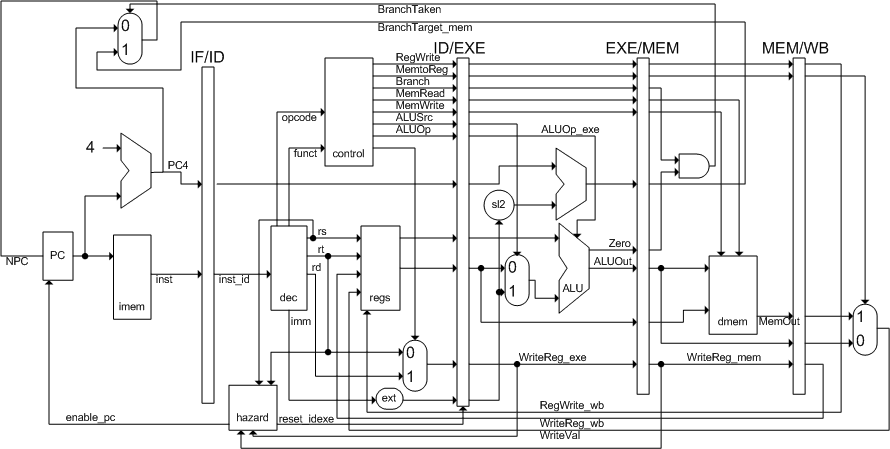
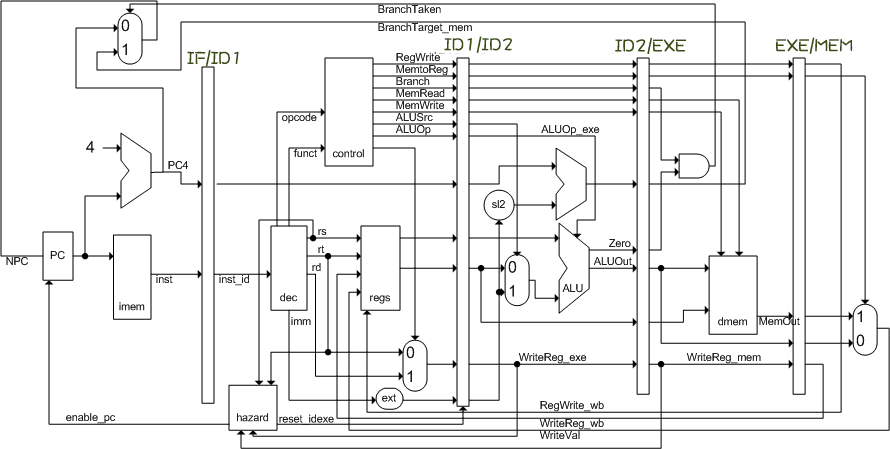
ex2 done ;D

diff --git a/Trabalho 1/MIPS_SystemC_v0.6.6/GUI/MIPSimemview.cpp b/Trabalho 1/MIPS_SystemC_v0.6.6/GUI/MIPSimemview.cpp
@@ -7,23 +7,25 @@
 
 #include "MIPSimemview.h"
 
-MIPSimemview::MIPSimemview( imem &m, 
-		            sc_port_base &pc, 
-		            sc_port_base &pc_id, 
-		            sc_port_base &valid_id, 
-		            sc_port_base &pc_exe, 
-		            sc_port_base &valid_exe, 
-		            sc_port_base &pc_mem, 
-		            sc_port_base &valid_mem, 
-		            sc_port_base &pc_wb, 
-		            sc_port_base &valid_wb, 
+MIPSimemview::MIPSimemview( imem &m,
+		            sc_port_base &pc,
+		            sc_port_base &pc_id,
+		            sc_port_base &valid_id,
+		            sc_port_base &pc_exe,
+		            sc_port_base &valid_exe,
+		            sc_port_base &pc_mem,
+		            sc_port_base &valid_mem,
+		            sc_port_base &pc_wb,
+		            sc_port_base &valid_wb,
 		            QWidget* parent,  const char* name, Qt::WFlags fl )
     : MIPSmemview( m, parent, name, fl )
-{   
+{
     // access to PC value
     PC     = new PortValRead(pc,"PC");
     PC_id  = new PortValRead(pc_id,"PC_id");
     Valid_id  = new PortValRead(valid_id,"valid_id");
+    //PC_id2  = new PortValRead(pc_id2,"PC_id");
+    //Valid_id2  = new PortValRead(valid_id2,"valid_id");
     PC_exe = new PortValRead(pc_exe,"PC_exe");
     Valid_exe = new PortValRead(valid_exe,"valid_exe");
     PC_mem = new PortValRead(pc_mem,"PC_mem");
@@ -43,11 +45,12 @@ QString MIPSimemview::MemItem(unsigned int i)
     //PCs
     if(PC->read() == i) ListStr = "F";
     else if(PC_id->read()  == i && Valid_id->read()  == 1) ListStr="D";
+    //else if(PC_id2->read()  == i && Valid_id2->read()  == 1) ListStr="D2";
     else if(PC_exe->read() == i && Valid_exe->read() == 1) ListStr="E";
     else if(PC_mem->read() == i && Valid_mem->read() == 1) ListStr="M";
     else if(PC_wb->read()  == i && Valid_wb->read()  == 1) ListStr="W";
     else ListStr=" ";
-	
+
     //address
     HexVal.setNum(i,16);
     ListStr+=HexVal.rightJustify(4)+":";
@@ -69,7 +72,7 @@ unsigned int MIPSimemview::current()
     return PC->read()/4;
 }
 
-/**  
+/**
  *  Inserts one MemItem in ListBox for each word in memory.
  *  Determines maximum sizes of widget.
  */
@@ -85,17 +88,17 @@ void MIPSimemview::initList()
               maxWidth=item(i)->width(this);
 
        height=item(0)->height(this);  // is fixed for all items
-        
+
        // set Maximum size
        setMaximumSize(maxWidth+20,height*mem.size()/4+4);
 
-       if(mem.size()>0 && mem.size()<80) 
+       if(mem.size()>0 && mem.size()<80)
           resize(maxWidth+4,height*mem.size()/4+4);
        else resize(maxWidth+20,100);
     }
 }
 
-/**  
+/**
  *  Destroys the object and frees any allocated resources
  */
 MIPSimemview::~MIPSimemview()

diff --git a/Trabalho 1/MIPS_SystemC_v0.6.6/mips.cpp b/Trabalho 1/MIPS_SystemC_v0.6.6/mips.cpp
@@ -64,8 +64,6 @@ void mips::buildID1(void)
       rfile->reg1( rs_id1 );
       rfile->reg2( rt_id1 );
       rfile->regwrite(WriteReg_wb);
-      rfile->data1( regdata1_id2 );
-      rfile->data2( regdata2_id2 );
       rfile->enable( const1 );
 
       rfile->wr(RegWrite_wb);
@@ -116,6 +114,12 @@ void mips::buildID2(void)
      ctrl->ALUOp(ALUOp);
      ctrl->ALUSrc(ALUSrc);
      ctrl->RegWrite(RegWrite);
+
+     // Register File
+
+     rfile->data1( regdata1_id2 );
+     rfile->data2( regdata2_id2 );
+
 }
 /**
  * buils EXE stage components
@@ -241,6 +245,10 @@ void mips::buildArchitecture(void){
       reg_id1_id2->opcode_id2(opcode_id2);
       reg_id1_id2->funct_id1(funct_id1);
       reg_id1_id2->funct_id2(funct_id2);
+      reg_id1_id2->PC_id(PC_id);
+      reg_id1_id2->PC_id2(PC_id2);
+      reg_id1_id2->valid_id(valid_id);
+      reg_id1_id2->valid_id2(valid_id2);
 
       reg_id1_id2->clk(clk);
       reg_id1_id2->reset(reset_id1id2);
@@ -284,9 +292,9 @@ void mips::buildArchitecture(void){
       reg_id2_exe->ALUSrc_exe(ALUSrc_exe);
       reg_id2_exe->ALUOp_id(ALUOp);
       reg_id2_exe->ALUOp_exe(ALUOp_exe);
-      reg_id2_exe->PC_id(PC_id);
+      reg_id2_exe->PC_id(PC_id2);
       reg_id2_exe->PC_exe(PC_exe);
-      reg_id2_exe->valid_id(valid_id);
+      reg_id2_exe->valid_id(valid_id2);
       reg_id2_exe->valid_exe(valid_exe);
       reg_id2_exe->clk(clk);
       reg_id2_exe->reset(reset_id2exe);
@@ -359,8 +367,8 @@ void mips::buildArchitecture(void){
       buildWB();
 
       hazard_unit = new hazard("hazard_unit");
-      hazard_unit->rs( rs_id2 );
-      hazard_unit->rt( rt_id2 );
+      hazard_unit->rs( rs_id1 );
+      hazard_unit->rt( rt_id1 );
       hazard_unit->WriteReg_exe(WriteReg_exe);
       hazard_unit->RegWrite_exe(RegWrite_exe);
       hazard_unit->WriteReg_mem(WriteReg_mem);

diff --git a/Trabalho 1/MIPS_SystemC_v0.6.6/GUI/MIPSarch.cpp b/Trabalho 1/MIPS_SystemC_v0.6.6/GUI/MIPSarch.cpp
@@ -57,8 +57,8 @@ MIPSarchCanvas::MIPSarchCanvas(mips &m, QObject *parent) : Q3Canvas(parent), mip
     qText->move(484,6);
     qText->setColor(QColor("purple"));
     instStage.push_back(qText);
-    pcStage.push_back(new PortValRead(mips1.reg_id2_exe->PC_exe,"PC_exe"));
-    validpcStage.push_back(new PortValRead(mips1.reg_id2_exe->valid_exe,"valid_PC_exe"));
+    pcStage.push_back(new PortValRead(mips1.reg_id1_id2->PC_id2,"PC_id2"));
+    validpcStage.push_back(new PortValRead(mips1.reg_id1_id2->valid_id2,"valid_PC_id2"));
 
     qText=new Q3CanvasText("nop",this);
     qText->setTextFlags(Qt::AlignLeft | Qt::AlignTop);
@@ -66,8 +66,8 @@ MIPSarchCanvas::MIPSarchCanvas(mips &m, QObject *parent) : Q3Canvas(parent), mip
     qText->move(661,6);
     qText->setColor(QColor("purple"));
     instStage.push_back(qText);
-    pcStage.push_back(new PortValRead(mips1.reg_exe_mem->PC_mem,"PC_mem"));
-    validpcStage.push_back(new PortValRead(mips1.reg_exe_mem->valid_mem,"valid_PC_mem"));
+    pcStage.push_back(new PortValRead(mips1.reg_id2_exe->PC_exe,"PC_exe"));
+    validpcStage.push_back(new PortValRead(mips1.reg_id2_exe->valid_exe,"valid_PC_exe"));
 
     qText=new Q3CanvasText("nop",this);
     qText->setTextFlags(Qt::AlignLeft | Qt::AlignTop);
@@ -75,8 +75,8 @@ MIPSarchCanvas::MIPSarchCanvas(mips &m, QObject *parent) : Q3Canvas(parent), mip
     qText->move(800,6);
     qText->setColor(QColor("purple"));
     instStage.push_back(qText);
-    pcStage.push_back(new PortValRead(mips1.reg_mem_wb->PC_wb,"PC_wb"));
-    validpcStage.push_back(new PortValRead(mips1.reg_mem_wb->valid_wb,"valid_PC_wb"));
+    pcStage.push_back(new PortValRead(mips1.reg_exe_mem->PC_mem,"PC_mem"));
+    validpcStage.push_back(new PortValRead(mips1.reg_exe_mem->valid_mem,"valid_PC_wb"));
 
     // value of port signals
     // IF

diff --git a/Trabalho 1/MIPS_SystemC_v0.6.6/reg_id1_id2.h b/Trabalho 1/MIPS_SystemC_v0.6.6/reg_id1_id2.h
@@ -38,10 +38,10 @@ SC_MODULE(reg_id1_id2_t) {
 	sc_in  < sc_uint<6> > opcode_id1, funct_id1;
 	sc_out < sc_uint<6> > opcode_id2, funct_id2;
 
-	// sc_in  < sc_uint<32> > PC_id;   // only for visualization purposes
-	// sc_out < sc_uint<32> > PC_exe;  // only for visualization purposes
-	// sc_in  < bool > valid_id;       // only for visualization purposes
-	// sc_out < bool > valid_exe;      // only for visualization purposes
+	sc_in  < sc_uint<32> > PC_id;   // only for visualization purposes
+	sc_out < sc_uint<32> > PC_id2;  // only for visualization purposes
+	sc_in  < bool > valid_id;       // only for visualization purposes
+	sc_out < bool > valid_id2;      // only for visualization purposes
 
 	// Modules
 
@@ -52,8 +52,8 @@ SC_MODULE(reg_id1_id2_t) {
 	regT < sc_uint<5> > *rt, *rd, *rs;
 	regT < sc_uint<6> > *opcode, *funct;
 
-	// regT < sc_uint<32> > *PC;      // only for visualization purposes
-	// regT < bool > *valid;          // only for visualization purposes
+	regT < sc_uint<32> > *PC;      // only for visualization purposes
+	regT < bool > *valid;          // only for visualization purposes
 
 	SC_CTOR(reg_id1_id2_t) {
 
@@ -113,21 +113,21 @@ SC_MODULE(reg_id1_id2_t) {
 		imm->enable(enable);
 		imm->reset(reset);
 
-		/*
+
 		PC = new regT < sc_uint<32> >("PC");
 		PC->din(PC_id);
-		PC->dout(PC_exe);
+		PC->dout(PC_id2);
 		PC->clk(clk);
 		PC->enable(enable);
 		PC->reset(reset);
 
 		valid = new regT < bool >("valid");
 		valid->din(valid_id);
-		valid->dout(valid_exe);
+		valid->dout(valid_id2);
 		valid->clk(clk);
 		valid->enable(enable);
 		valid->reset(reset);
-		*/
+
 	}
 };
 

diff --git a/Trabalho 1/MIPS_SystemC_v0.6.6/hazard.cpp b/Trabalho 1/MIPS_SystemC_v0.6.6/hazard.cpp
@@ -13,17 +13,16 @@ void hazard::detect_hazard()
 	//data hazards
 	if( rs.read()!=0 && rs.read()==WriteReg_exe.read() && RegWrite_exe.read()==true
 	    || rs.read()!=0 && rs.read()==WriteReg_mem.read() && RegWrite_mem.read()==true
-		//|| rs.read()!=0 && rs.read()==WriteReg_id2.read() && RegWrite.read()==true
-		//|| rt.read()!=0 && rt.read()==WriteReg_id2.read() && RegWrite.read()==true
+		|| rs.read()!=0 && rs.read()==WriteReg_id2.read() && RegWrite.read()==true
+		|| rt.read()!=0 && rt.read()==WriteReg_id2.read() && RegWrite.read()==true
 	    || rt.read()!=0 && rt.read()==WriteReg_exe.read() && RegWrite_exe.read()==true && MemRead.read()==false
 	    || rt.read()!=0 && rt.read()==WriteReg_mem.read() && RegWrite_mem.read()==true && MemRead.read()==false) {
 		fprintf(stderr, "if!\n");
 
 		enable_pc.write(false);
 		enable_ifid.write(false);
-		enable_id1id2.write(false);
+		reset_id1id2.write(true);
 		enable_regs.write(false);
-		reset_id2exe.write(true);
 	}else {
 		fprintf(stderr, "else!\n");
 	  enable_pc.write(true);

diff --git a/Trabalho 1/MIPS_SystemC_v0.6.6/mips.h b/Trabalho 1/MIPS_SystemC_v0.6.6/mips.h
@@ -120,7 +120,7 @@ SC_MODULE(mips) {
    sc_signal < sc_uint<6> > funct_id1;
    // register file signals
 
-   sc_signal <bool> reset_haz_id1id2, reset_id1id2, enable_id1id2, reset_haz_regs, reset_regs;
+   sc_signal <bool> reset_haz_id1id2, reset_id1id2, enable_id1id2, reset_haz_regs, reset_regs, enable_regs;
 
    // the following two signals are not used by the architecture
    // they are used only for visualization purposes
@@ -161,8 +161,8 @@ SC_MODULE(mips) {
 
    // the following two signals are not used by the architecture
    // they are used only for visualization purposes
-   sc_signal < sc_uint<32> > PC_id;      // PC of instruction in ID
-   sc_signal < bool >        valid_id;   // true if there is an instruction in ID
+   sc_signal < sc_uint<32> > PC_id, PC_id2;      // PC of instruction in ID
+   sc_signal < bool >        valid_id, valid_id2;   // true if there is an instruction in ID
 
    //EXE
    sc_signal < bool > Zero;            // ALU output is zero*/

diff --git a/Trabalho 1/MIPS_SystemC_v0.6.6/dmem.cpp b/Trabalho 1/MIPS_SystemC_v0.6.6/dmem.cpp
@@ -10,9 +10,13 @@
 void dmem::read_mem()
 {
     if(rd.read()) {
+
+      fprintf(stderr, "# address: %#08x\n", (int)addr.read());
         //assert(addr.read()<size() && addr.read() % 4 == 0);
-        if((addr.read()<size() && addr.read() % 4 == 0))
+        if((addr.read()<size() && addr.read() % 4 == 0)){
+          fprintf(stderr, "# memory data: %#08x\n", (int)memory[addr.read()/4]);
            dout.write(memory[addr.read()/4]);
+        }
 	else dout.write(0);
     }
 }

diff --git a/Trabalho 1/MIPS_SystemC_v0.6.6/regfile.cpp b/Trabalho 1/MIPS_SystemC_v0.6.6/regfile.cpp
@@ -49,6 +49,11 @@ void regfile::regfile_access()
          if(reg2.read() < 32)
             s_reg2 = reg2.read();
       }
+      // 
+      // fprintf(stderr, "# REGFILE\n");
+      // fprintf(stderr, "# memory[%#08x]: %#08x\n", (int)s_reg1.read(), (int)memory[s_reg1.read()]);
+      // fprintf(stderr, "# memory[%#08x]: %#08x\n", (int)s_reg2.read(), (int)memory[s_reg2.read()]);
+
       data1.write(memory[s_reg1.read()]);
       data2.write(memory[s_reg2.read()]);
    }

diff --git a/Trabalho 1/MIPS_SystemC_v0.6.6/alu.cpp b/Trabalho 1/MIPS_SystemC_v0.6.6/alu.cpp
@@ -13,6 +13,10 @@ void alu::calc()
     sc_int<32> asign;
     sc_int<32> bsign;
 
+    fprintf(stderr, "ALU");
+    fprintf(stderr, "# a: %#08x\n", (int)din1.read());
+    fprintf(stderr, "# b: %#08x\n", (int)din2.read());
+
     asign=a;
     bsign=b;
 
@@ -33,5 +37,6 @@ void alu::calc()
     }
 
     zero.write(res == 0);
+    fprintf(stderr, "# res: %#08x\n", (int)res);
     dout.write(res);
 }
